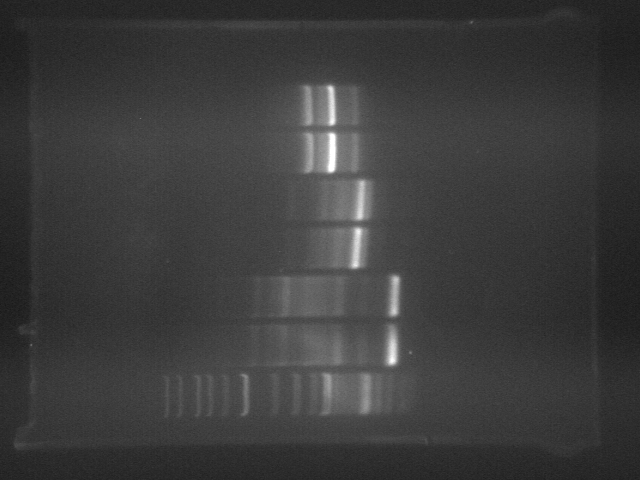
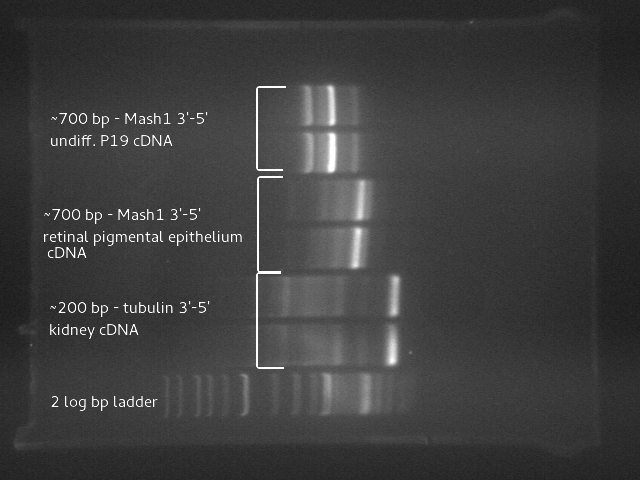
gel from first cDNA/mash1: added and labeled with expected lengths and relevant tissue areas

diff --git a/_posts/2014-10-15-cloning-mash1-from-rat-cdna.md b/_posts/2014-10-15-cloning-mash1-from-rat-cdna.md
@@ -45,4 +45,10 @@ Run the middle 3 steps x35 times
 | 72 | 1:30 s | x35 |
 | 72 | 3 mins | - |
 
+####Gel results
+
+from a ~.75% agarose gel
+![My helpful screenshot]({{ site.url }}/Data/10-15-14_mash1-cDNA-v1.png)
+
+
 
